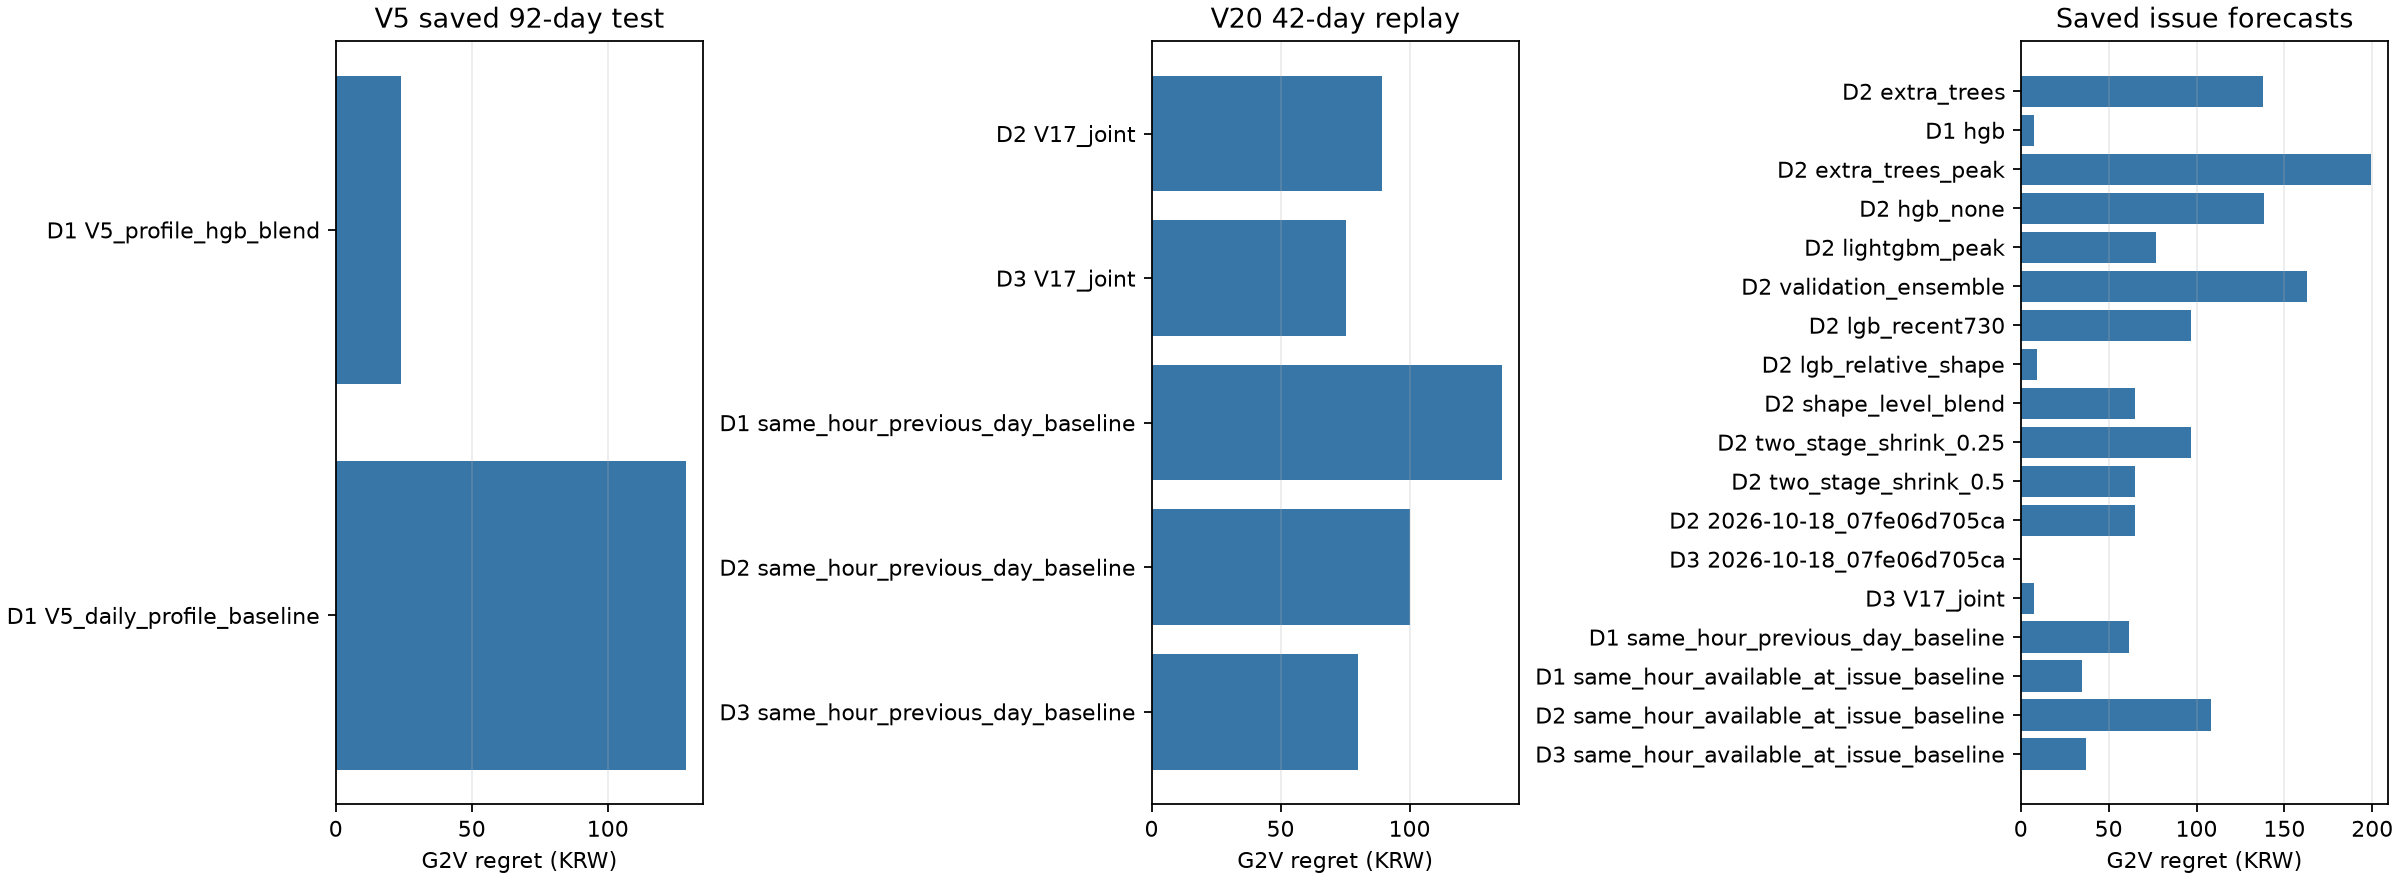
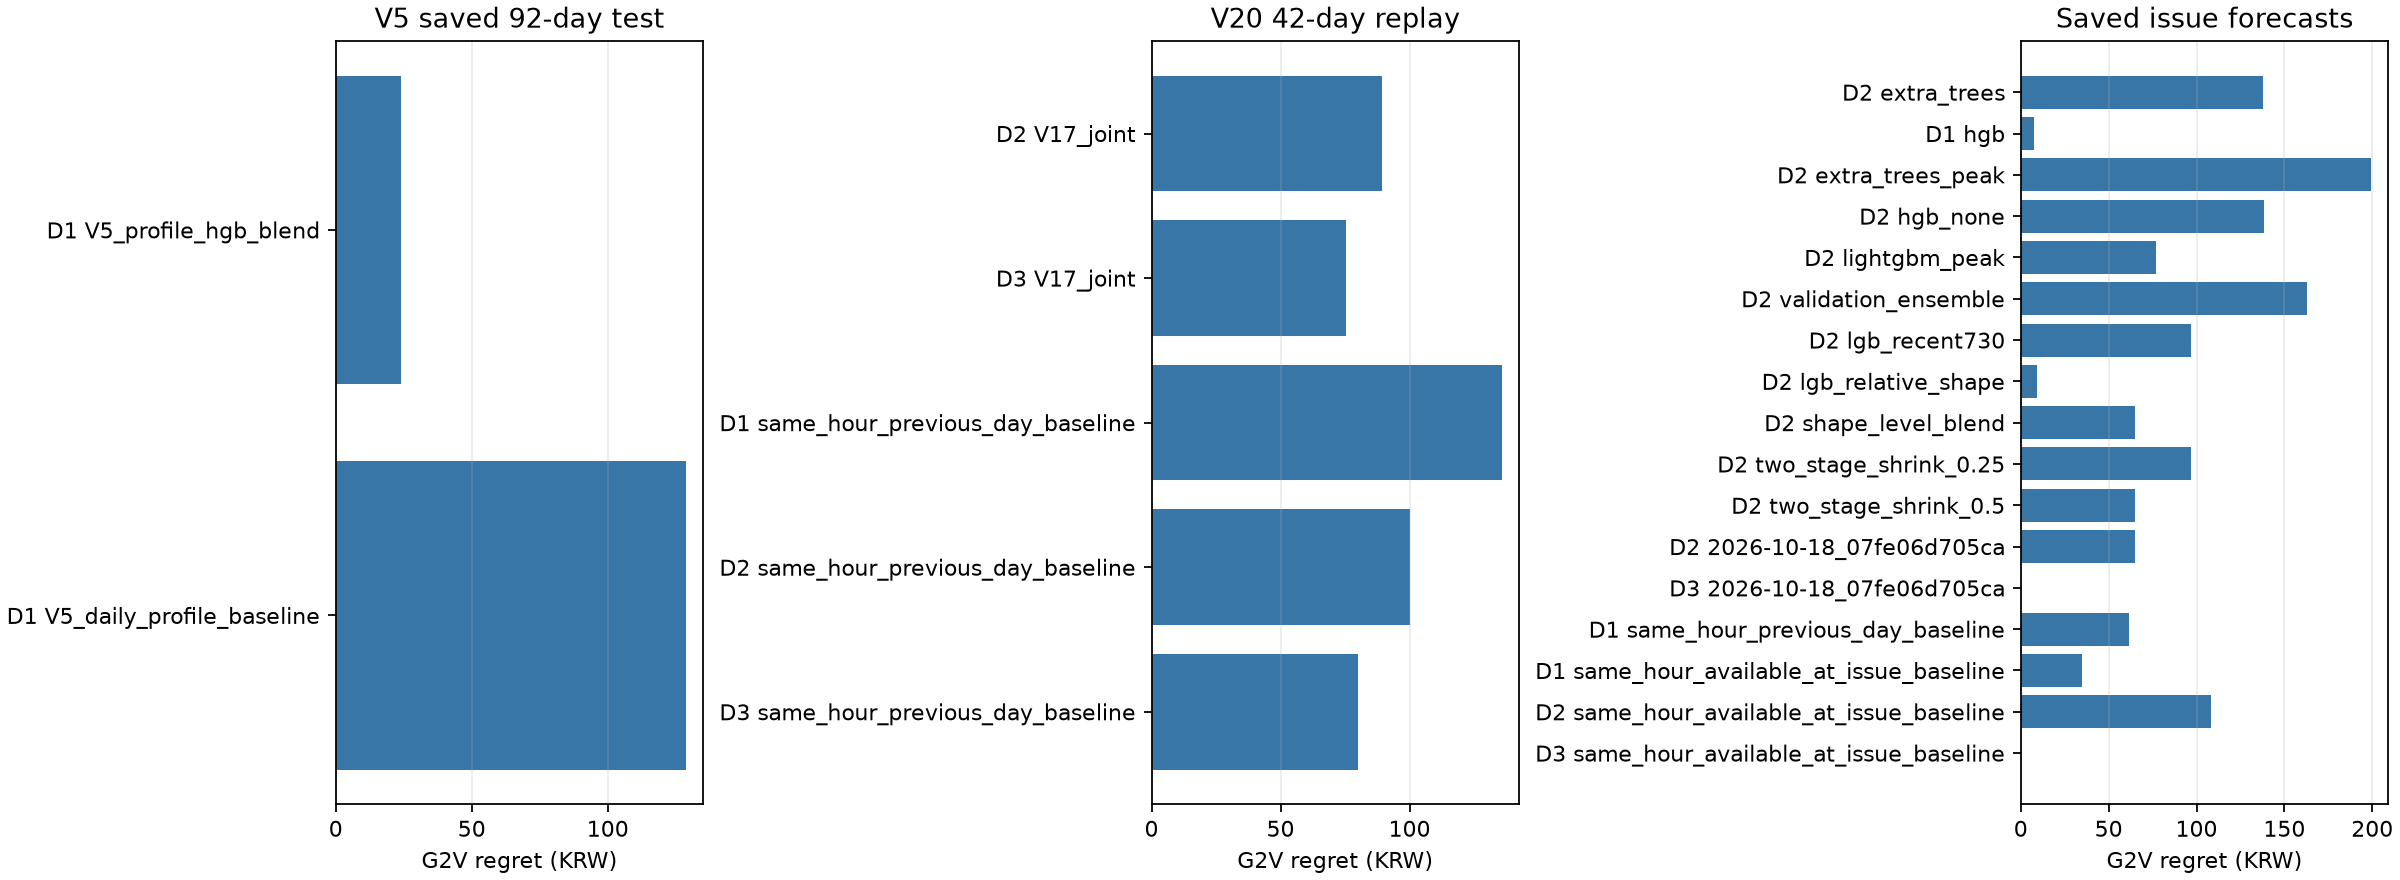
Exclude incomplete delivery days from final evaluation

Changed region(s): [[0.625, 0.092, 0.9688, 0.8898]]

diff --git a/v20/saved_evaluation.py b/v20/saved_evaluation.py
@@ -62,6 +62,9 @@ def _baseline(prices, target, horizon):
 def build_saved_evaluation():
     """Create a new, separate analysis set from saved forecasts and prior scores."""
     RESEARCH.mkdir(parents=True, exist_ok=True)
+    # A price row for a future delivery day may be a published/indicative price,
+    # not a realized outcome. Only score fully completed delivery dates.
+    evaluation_cutoff_date = pd.Timestamp.now(tz='Asia/Seoul').normalize()
     actual, conflicts = reference()
     actual = actual[['timestamp', 'smp', 'source']].drop_duplicates('timestamp').sort_values('timestamp')
     actual_index = actual.set_index('timestamp').smp
@@ -123,6 +126,7 @@ def build_saved_evaluation():
                 source, baseline_pred = _baseline(issue_prices, target, horizon) if 1 <= horizon <= 3 else (pd.DatetimeIndex([]), np.array([]))
                 baseline_ready = len(baseline_pred) == 24 and np.isfinite(baseline_pred).all()
                 observed = actual_index.reindex(target).to_numpy(dtype=float)
+                delivery_completed = pd.Timestamp(day, tz='Asia/Seoul') < evaluation_cutoff_date
                 score = saved_scores.get((path.name, day))
                 dedup_key = (version, origin.strftime('%Y-%m-%d'), day, horizon, model)
                 duplicate_retry = dedup_key in seen_forecasts
@@ -133,6 +137,8 @@ def build_saved_evaluation():
                     status = 'malformed_or_partial_saved_forecast'
                 elif known_flag:
                     status = 'excluded_target_price_known_at_issue'
+                elif not delivery_completed:
+                    status = 'awaiting_completed_delivery_day'
                 elif not np.isfinite(observed).all():
                     status = 'awaiting_actual_price'
                 elif version == 20:

diff --git a/docs/final_project/FINAL_REPORT.md b/docs/final_project/FINAL_REPORT.md
@@ -24,8 +24,6 @@ MAE/RMSE 단위는 원/kWh, G2V regret은 원/일이다. regret은 동일한 전
 | D+2 · V20 같은 42일 | 전일 동시간 기준선 | 42 | 9.734 | 13.809 | 100.01 | 동일 42개 주간 대상일 |
 | D+3 · 발급 저장 (2026-10-19) | V17 joint | 1 | 9.833 | 11.562 | 0.00 | 같은 날 기준선보다 SMP 오차가 큼, regret은 동률 |
 | D+3 · 같은 날짜 재생 기준선 | 발급시점 전일 동시간 SMP | 1 | 4.957 | 7.357 | 0.00 | 한 날짜 결과 |
-| D+3 · 저장 운영 예측 (2026-10-27) | V17 joint | 1 | 13.753 | 17.142 | 7.38 | 기준선보다 가격 오차는 크고 regret은 낮음 |
-| D+3 · 같은 날짜 재생 기준선 | 발급시점 전일 동시간 SMP | 1 | 4.662 | 6.382 | 74.65 | 한 날짜 결과 |
 | D+3 · V20 과거 재현 (2026-01-01~10-15) | V17 joint | 42 | 11.292 | 14.387 | 75.39 | MAE는 기준선보다 약간 높고 RMSE/regret은 낮음 |
 | D+3 · V20 같은 42일 | 전일 동시간 기준선 | 42 | 11.079 | 15.237 | 80.01 | 동일 42개 주간 대상일 |
 
@@ -33,7 +31,7 @@ MAE/RMSE 단위는 원/kWh, G2V regret은 원/일이다. regret은 동일한 전
 
 - **D+1:** V5는 자체 92일 테스트에서 같은 테스트 날짜의 V5 기준선보다 정확도와 G2V regret 모두 낮았다. 이는 V20의 2026년 운영·재현 결과와 직접 비교할 수 없다. 저장 발급의 V11 D+1은 한 날짜뿐이며 모델 가용성 입증이 부족하다.
 - **D+2:** 저장 예측 3일 묶음에서는 V12 LightGBM peak가 해당 날짜 기준선보다 평균 MAE/RMSE/regret이 낮았다. 단, 보존 기록의 일부는 예정 기준시각보다 늦게 생성됐고 V12/V14/V15 모델 잠금 시각을 확인할 수 없어 연구 참고 결과다. 별도 V20 42일 재현에서는 V17이 가격 MAE/RMSE에서 기준선보다 불리하고 G2V regret에서만 낮았다.
-- **D+3:** V17의 이점은 일관되지 않았다. 저장 예측 날짜에서는 기준선의 MAE/RMSE가 더 낮았고 regret은 같거나 V17에서 낮았다. 42일 재현에서도 MAE는 기준선, RMSE와 G2V regret은 V17이 약간 낮았다. 실제 운영 표본 하나만으로 우위를 확정할 수 없다.
+- **D+3:** V17의 이점은 일관되지 않았다. 확인 가능한 저장 예측 2026-10-19에서는 기준선의 MAE/RMSE가 더 낮았고 regret은 동률이었다. 42일 재현에서도 MAE는 기준선, RMSE와 G2V regret은 V17이 약간 낮았다. 평가 시점(2026-10-26)에 2026-10-27은 아직 완료되지 않은 배송일이므로 저장 가격이 있어도 실적 성능 집계에서 제외했다.
 - 평가에서 나쁜 결과를 낸 모델도 비교 파일에 유지했다. 특정 대상일의 최저오차만으로 모델을 선정하거나 기간이 다른 결과를 순위화하지 않는다.
 
 ## 3. 보존 자료 및 신뢰 한계
@@ -42,6 +40,7 @@ MAE/RMSE 단위는 원/kWh, G2V regret은 원/일이다. regret은 동일한 전
 - V11~V20의 저장 예측 대상 항목 41개를 확인했다. 기존 V19의 저장 평가 점수 19개를 재사용하고 V11/V20 저장 건은 필요한 비교만 계산했다. 발급 때 대상일 SMP가 이미 알려진 11개와 재시도 중복 5개는 성능 집계에서 제외했다.
 - V20 D+2의 2026-10-26 SMP 24시간은 2026-10-24 23:00 발급 전에 수신된 것으로 확인되어 사전예측 평가에서 제외했다.
 - 보존 실제값은 공식 제공 SMP 기록이다. 최종 정산·사후 수정 통계인지 확인할 수 있는 별도 확정 feed가 없어 공식 제공가격과 확정 실적을 동일시하지 않았다.
+- 평가 시점보다 미래이거나 아직 끝나지 않은 배송일의 SMP는 실제 오차/regret 계산에 쓰지 않는다. 해당 가격이 사전 공개·예시 가격인지 최종 실적인지 출처 기록만으로 구분되지 않는 경우도 있다.
 - V20 42일의 당시 입력 수신시각은 충분히 보존되지 않았다. 모델 registry 잠금도 해당 재현 origin보다 늦다. 모든 42일 결과는 **과거 재현 참고값**이고 검증된 실운영 성능이 아니다.
 - V11/V12/V14/V15의 일부 자료는 입력 수신시각은 확인되지만 당시 모델 고정·가용 여부가 불명확하다. V17 일부 예측은 저장 발급은 있으나 예정 기준시각 이후에 생성됐다.
 - 별도 V11 training test, V12 selection, V14 chronological follow-up, V15 model study, V16 maintenance study의 시간별 CSV도 확인했다. 이들은 실제 발급시각·당시 모델 잠금·입력 vintage를 함께 증명하지 않는 연구 산출물이므로 저장 운영 예측 비교표에는 섞지 않았다. 특히 V16 파일의 `source_first_seen`이 예측 대상일보다 훨씬 뒤인 2026-10-16으로 기록돼 있어 그 파일의 과거 예측은 실운영 성능 증거가 아니다. 이 자료들은 기존 연구 참고자료로 보존한다.

diff --git a/docs/final_project/DEMO_GUIDE.md b/docs/final_project/DEMO_GUIDE.md
@@ -24,13 +24,14 @@
 2. 시연 자료 유형으로 **실제 저장 예측 (V11–V20)**, 예측 기간 **D+2**, 대상일 **2026-10-18**, 모델 **V12 LightGBM peak**를 선택한다.
 3. 차트의 실제 SMP·저장 예측·발급시점 기준선을 비교한다. 이 모델은 시간별 급등 확률을 저장했으며, 선택한 기록에서 지원하는 경우 위험도 표를 보여준다.
 4. 배터리 용량, 초기 SOC, 목표 SOC, 시작·출발 시각을 입력한다. G2V 추천 충전시간, 예측가격 비용, 실제 제공가격 기준 사후 비용/regret를 확인한다.
-5. D+1 시연은 **V5 보존 92일 테스트**를 선택한다. D+3 시연은 **실제 저장 예측**에서 2026-10-19 V17 또는 2026-10-27 V20을 선택한다. V20의 42일 값은 실제 발급이 아니라 과거 재현으로 표시된다.
+5. D+1 시연은 **V5 보존 92일 테스트**를 선택한다. D+3은 완료된 날짜인 2026-10-19 V17 저장 예측으로 보여준다. 2026-10-27 보존 예측은 대상일이 아직 완료되지 않아 실제 SMP 비교·평가에서 제외된다. V20의 42일 값은 실제 발급이 아니라 과거 재현으로 표시된다.
 6. **연구 예측 정확도** 화면에서 V5 92일과 V20 42일 집단을 분리해 표와 그래프를 확인한다.
 
 ## 비교 해석 시 주의
 
 - V5 92일 자체 테스트, 2026년 저장 발급 예측, V20 42일 과거 재현은 평가 기간과 생성 방식이 다르다. 다른 집단 간 숫자를 직접적인 성능 향상으로 말하지 않는다.
 - D+2 2026-10-26은 발급 당시 실제 SMP 24시간을 이미 알고 있었으므로 사전예측 정확도 표본에서 제외됐다.
+- 아직 완료되지 않은 배송일(예: 2026-10-27)의 가격 레코드는 실제 SMP로 간주하지 않아 점수와 regret에 포함하지 않는다.
 - 일부 오래된 예측은 기준 발급시각보다 늦게 저장됐거나 모델 잠금시각이 확인되지 않는다. 학생 발표에서는 “저장 예측의 사후 비교” 또는 “참고 백테스트”라고 표시한다.
 - actual 그래프 가격은 보존된 공식 제공 SMP이며, 최종 정산 확정·사후 수정 통계 여부가 확인되지 않았다.
 - EV 비용/Regret은 가상 SMP 기반 평가이며 실제 충전요금이나 실차 V2G 매출이 아니다. 기본 추천은 G2V다.
